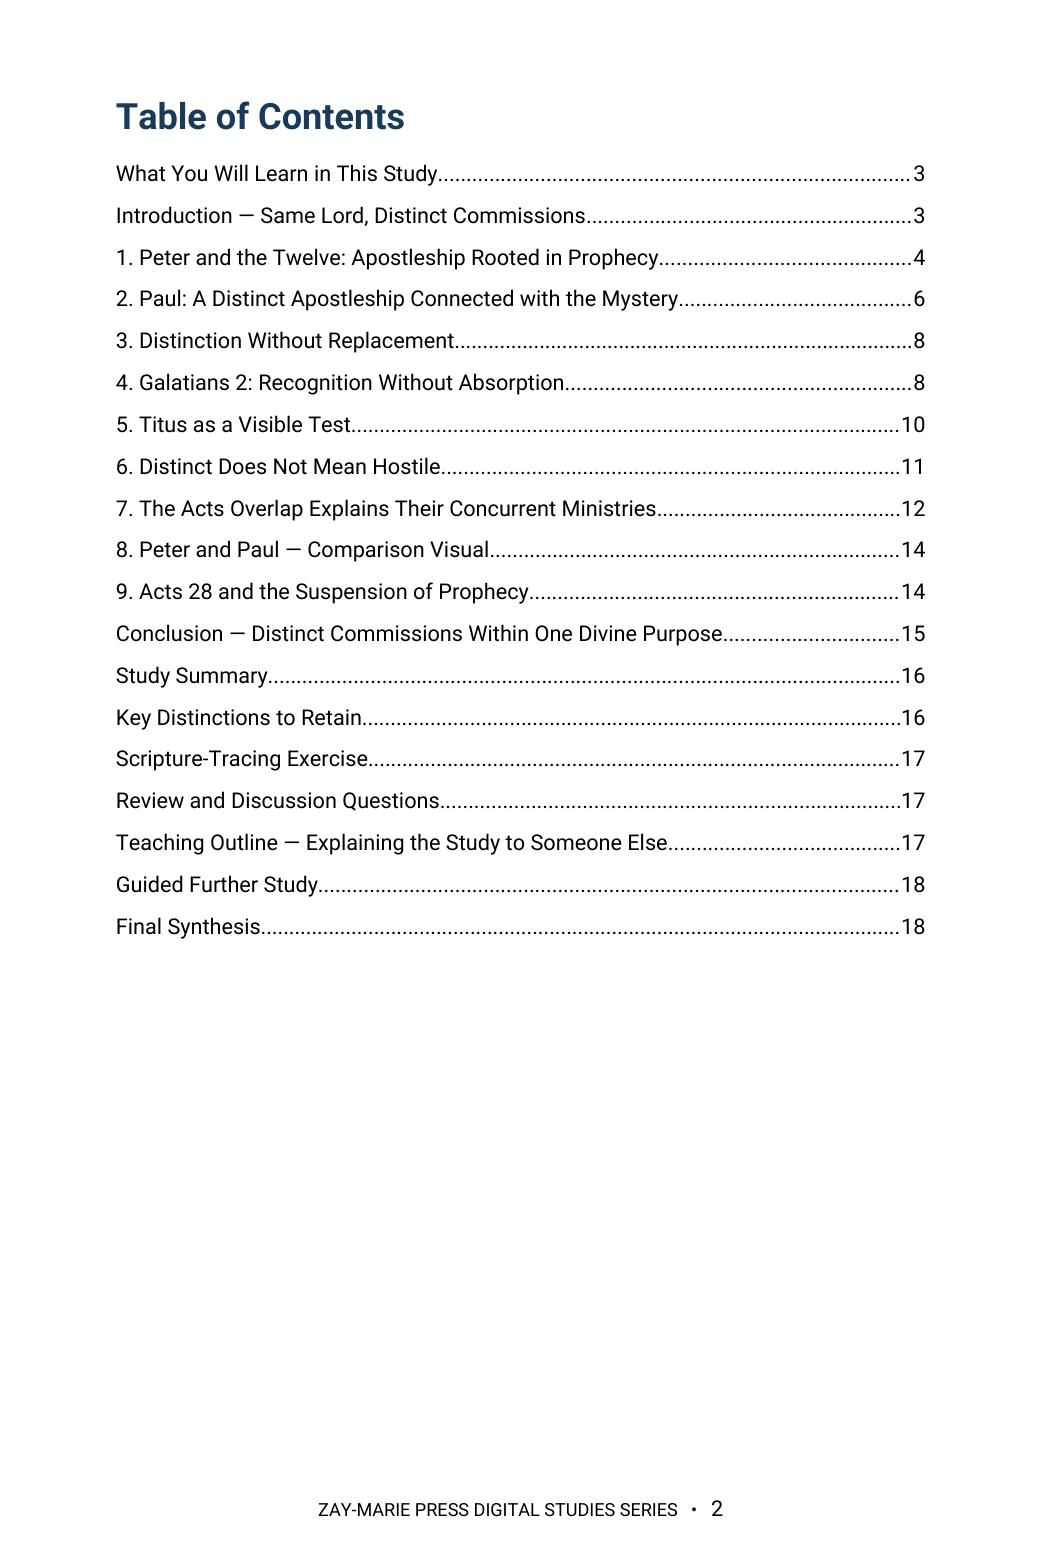
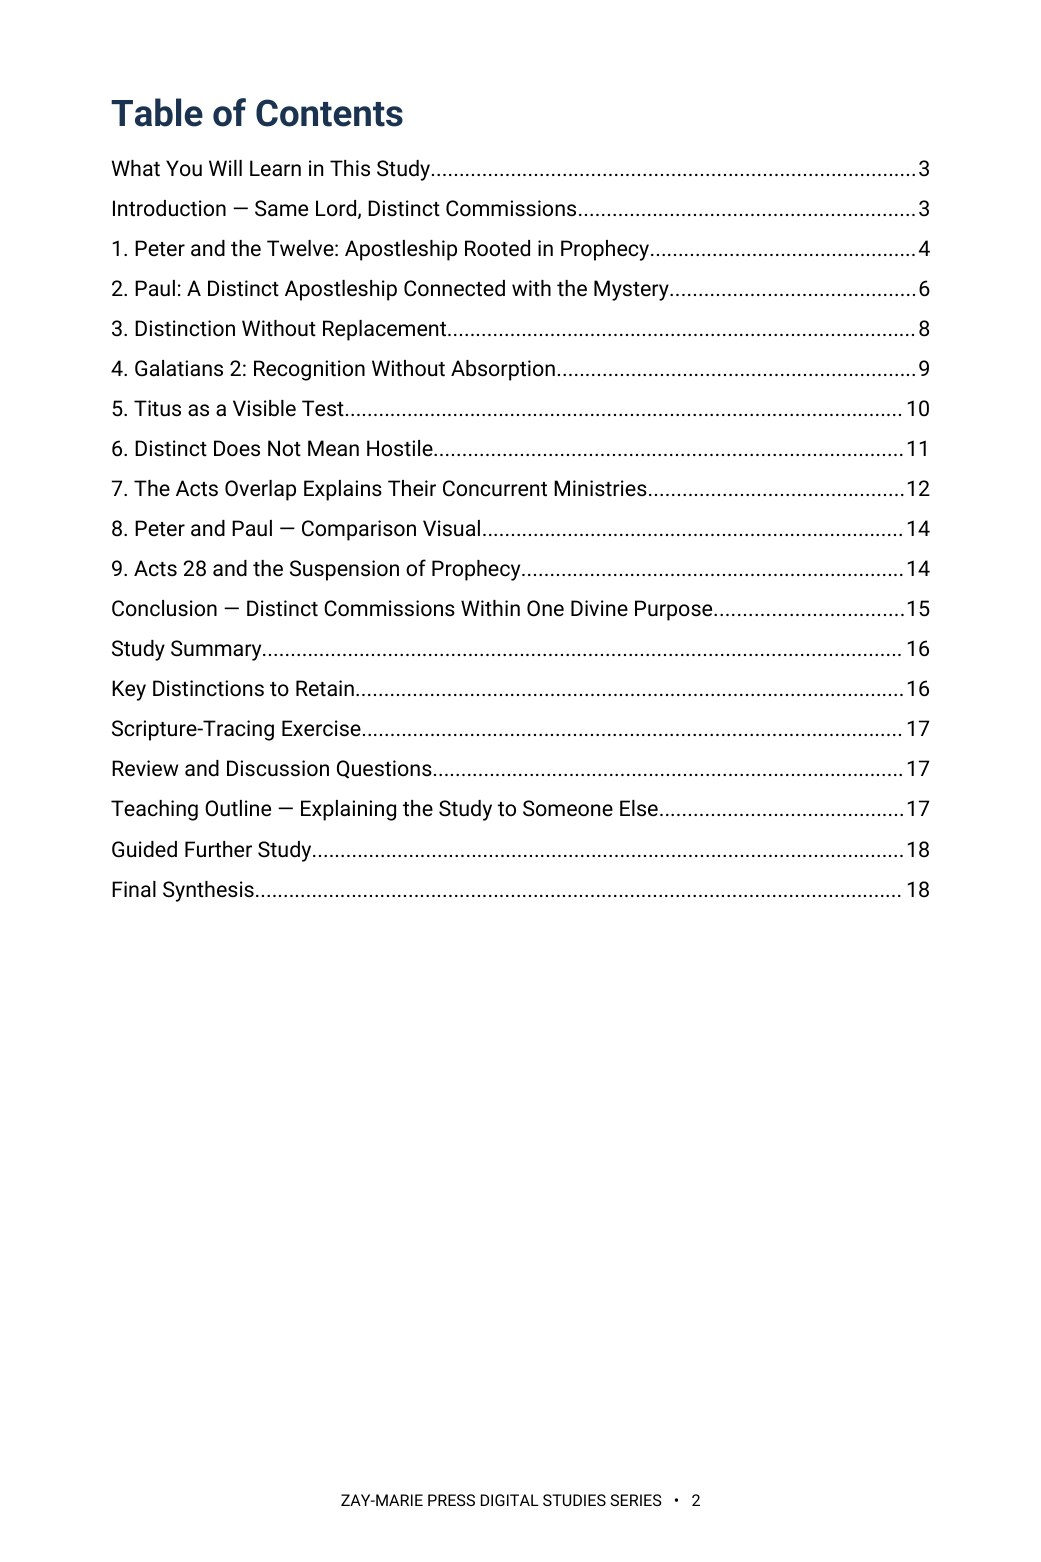
Study 18 retrofit: previews re-rendered at 1041x1562, trackers v1.47/v1.141
Claude-Session: https://claude.ai/code/session_01KcENxFzE91mCRyTPWhcwnE

diff --git a/controlling-documents/Doctrinal_Upgrade_Retrofit_Plan_v1.47.md b/controlling-documents/Doctrinal_Upgrade_Retrofit_Plan_v1.47.md
@@ -54,6 +54,7 @@ Working tracker for correcting published studies to the Framework/PAM v1.1, Mast
 | 32 Covenant and Dispensational Theology | Tier 2 read (Rule 18 synagogue mention, Acts 28, overlap, Rule 17, Romans 11 passing citation, Revelation, Hebrews, internal terms) | DONE 2026-10-03 (v1.42): rebuilt to the Study 52 page geometry at 10 pt body with 10 pt table spacing (16 → 19 pp, Roboto Regular/Bold). Hebrews and Revelation 20–22 working-term sentences replaced by reader-facing wording; overlap sentence, Rule 17 sentence, Acts 28 'not a transfer', full Rule 18 sentence with short form, and the Romans 11 four boundaries plus triad added; 'macro-framework' kept as teaching vocabulary. Website: site.js 32:19, 19 Pages in the page text, previews 2, 3, 5 re-rendered. |
 | 33 The Crowns of Scripture | Tier 2 read (Revelation, overlap, anchors, internal terms) | DONE 2026-10-03 (v1.43): rebuilt to the Study 52 page geometry at 10 pt body with 10 pt table spacing (16 → 18 pp, Roboto Regular/Bold). Introduction PAM/Framework paragraph replaced by the reader-facing letters anchor (James, 1 Peter, 2 John, Philippians, 1 Thessalonians, 2 Timothy); Revelation 4 elders carry the Rule 14 line; overlap sentence added to the Conclusion; 'Pauline framework' changed to 'treatment'. Website: site.js 33:18, 18 Pages in the page text, previews 2, 3, 5 re-rendered. |
 | 14 Why Acts 9 Matters | Tier 2 read (Rule 18, overlap, Rule 17, Rule 11, Acts 28, Romans 11, Cornelius, 1 Timothy anchor, internal terms) | DONE 2026-10-03 (v1.46): rebuilt from the publisher PDF to the Study 52 page geometry at 10 pt body (15 pp, Roboto). Three framework phrasings reworded; Rule 18 full sentence plus short form in the synagogue passages; overlap, Rule 17, Rule 11 and Acts 10–11 sentences added; Acts 28 callout now national judicial suspension, not abolition and not a transfer; Romans 11 four boundaries and 1 Timothy anchor added. Cover: the supplied PDF carried the retired RIGHT DIVISION label, so the BODY OF CHRIST site cover was used. Website: site.js 14:15 unchanged, previews 2, 3, 5 re-rendered at 1041x1562. |
+| 18 Peter and Paul | Tier 2 read (Rule 18, overlap, Rule 17, Rule 11, Acts 28, Romans 11, Colossians and 2 Peter anchor, internal terms) | DONE 2026-10-03 (v1.47): rebuilt from the publisher PDF (432x649) to the Study 52 page geometry at 10 pt body (18 pp, Roboto). Two 'framework' phrasings reworded; Rule 18 full sentence plus short form after the synagogue mention; overlap, Rule 17, Rule 11 and Romans 11 four-boundary sentences added; Acts 28 now national judicial suspension, not abolition and not a transfer; Colossians and 2 Peter anchor added. Cover FOUNDATIONS unchanged; comparison image carried over. Website: site.js 18:18 unchanged, previews 2, 3, 6 re-rendered at 1041x1562. |
 | 39 The Church's Relationship to Israel's Scriptures | Abrahamic/covenant participation + overlap sentence | DONE 2026-10-02 (v1.23): interior corrected (16 pp, Roboto). Withdrawn overlap sentence replaced with the standing sentence and Acts 28 'not abolition and not a transfer' added (§9); 'Gentiles participate spiritually' replaced by the standing Galatians 3 sentence (§8) and 'whole/every covenant term' partial-transfer wording tightened (§8, Study Summary, Key Distinctions table); Romans 11 four-point list and triad added (Introduction); 2 Timothy and Philippians anchors converted and a Colossians anchor added. Sections moved down: TOC updated (7 numbers); 16 pp. Website: previews 2, 3, 5 re-rendered at 1041x1565; site.js 39:16 unchanged |
 | 40 Who Is Abraham's Seed? | Gal 3 / Abrahamic participation (core) | DONE 2026-10-02 (v1.22): interior corrected (16 pp, Roboto). Withdrawn overlap sentence replaced with the standing sentence (Introduction); Romans 11 four-point list and triad added (Introduction); the 'Gentiles participate spiritually / Abrahamic heirship, benefit, inheritance, connection' family replaced with the standing Galatians 3 sentence and plain wording (§6, §8, §10, Study Summary, Key Distinctions table); Romans 4 'participate in promise' and Teaching Outline 'share that benefit' reworded. Sections moved down: TOC updated (Conclusion p10, Scripture-Tracing p11, Guided Further Study p16); 16 pp. Website: preview pages 2, 3 and 4 re-rendered; site.js 40:16 unchanged |
 | 52 Sonship and Adoption | Gal 3 / Abrahamic participation | DONE 2026-10-02 (v1.21): interior corrected (16 pp, Roboto). Withdrawn Galatians 3:26–29 'Gentiles participate spiritually / ethnic distinction is kept' wording replaced by the standing Galatians 3 sentence (3.4) and the 'participation in the seed is spiritual' line reworded; Study 40 pointer parenthetical removed; nine 'The Framework does not assign…' anchors and the Hebrews sentence converted to the reader-facing forms; Romans 11 four-point list and triad added (Group 3). Shorter anchors moved sections up a page, so TOC numbers updated (§5 p9, §6 p11, Conclusion p12, etc.); total still 16 pp. Website: page-2 (TOC) preview re-rendered; pages 3 and 5 unchanged |
@@ -134,3 +135,4 @@ Working tracker for correcting published studies to the Framework/PAM v1.1, Mast
 - v1.44 (2026-10-03): Wave 5 website-side sweep run (read-only), then website fixes applied: Study 17 hero kicker corrected; 'the Framework principle' reworded to 'the principle' on Study 49 and the connections guide; static page-count text corrected on Study 13 (buy panel 15→19) and Study 17 (heading 15→18); previews for Studies 52, 53, 55, 56, 57 and 58 re-rendered at 1041×1562 from the final PDFs (they had been stretched at 1041×1347); two unreferenced stray images deleted (study-03-cover.jpg.png, publishing-process-conviction-to-craft.png.png). STILL OPEN (need publisher input or files): true page counts for Studies 2 (site.js 14, page 15), 14 (15 vs 13), 15 (16 vs 13), 16 (16 vs 14), 18 (18 vs 13); site.js entries and counts for 59 and 60 (and their odd-sized previews); previews for 61–71 (1041×1347, stretched; PDFs needed); imprint KJV sentence ruling (Studies 1, 21, 23, 26, 29, 31, 32, 33); footer alignment ruling; Study 1 navy 'Investigation' headings; 9 pt → 10 pt resets for every study not yet at 10 pt (all except 29, 31, 32, 33); Rule 18 full sentence for 14, 18, 21, 43; Titus anchor ruling; held-back KJV tables for 19–21, 25, 28; Tier 6 interior reads for studies whose PDFs are not on hand.
 - v1.45 (2026-10-03): Publisher supplied PDFs for Studies 2, 14, 15, 16, 18, 59 and 60. Real page counts: 2 = 14, 14 = 15, 15 = 16, 16 = 16, 18 = 18, 59 = 16, 60 = 18 (all match site.js; static page text corrected on 2 [15→14], 14 [13→15], 15 [13→16], 16 [14→16], 18 [13→18]); site.js entries 59:16 and 60:18 added; previews for 59 and 60 re-rendered at 1041×1562 (PDF pages 3, 4, 8 and 3, 4, 5). Read-only findings on those PDFs: Study 2 is Letter 612×792 (Roboto, all four faces, no internal-term hits); 14, 15, 16 and 18 are 432×649 (old geometry) with 'Acts Overlap framework' / 'controlling framework' wording (14, 15, 18) and 'Under the Framework' (16 line 218) to convert; Studies 59 and 60 production masters are NOT Roboto (Carlito, Liberation and Noto fonts), Study 59 is 575×864, and both carry 'Overlap framework' wording (59, 60). All seven are queued for rebuild to the v1.47/v1.48 geometry and 10 pt when sources arrive. Stale-count items from v1.44 for 2, 14, 15, 16, 18, 59, 60 are now CLOSED.
 - v1.46 (2026-10-03): Study 14 retrofit complete (see row). 1 Timothy anchor ("This reading of 1 Timothy rests on the letter’s own audience markers and setting.") approved by the publisher; Titus still awaits its own ruling. Next: Study 18.
+- v1.47 (2026-10-03): Study 18 retrofit complete (see row). Next: Studies 15, 16, 2, 59, 60 rebuilds and the remaining Wave 5 items.

diff --git a/CLAUDE.md b/CLAUDE.md
@@ -21,7 +21,7 @@ These are kept in the repo at `controlling-documents/` and are the current versi
 - As of v1.48 (publisher directive, 2026-10-02), §6 sets the **body-text standard at 10 pt** and enforces the table-spacing rule, written into this file in the same pass: body paragraphs, lists, table body text and Table of Contents entries are Roboto Regular 10 pt black (previously 9 pt), at 6 pt after / 0 before / 1.08 line spacing (lists 0 pt after each item, 6 pt after the last); headings (17 pt), callout titles (10 pt bold caps), the "Study Outline" sub-heading (12 pt) and the footer are unchanged. Every table, callout boxes included, has 10 pt of controlled spacing before and after: the paragraph before a table has at least 10 pt space-after and the paragraph after it at least 10 pt space-before, so body text never touches a table (the defect was seen on Study 29, under a KJV table). Studies built at 9 pt (1, 3, 7, 8, 10, 23, 26, 29 and the other rebuilt studies) are reset to 10 pt when reopened or in the Wave 5 sweep, and page counts, TOC pages, previews and `site.js` follow each rebuild. In every study check (Step 1) report the body size and measure the first paragraph after each table. Study 29 is the first study rebuilt to it.
 **`controlling-documents/Digital_Studies_Relationship_Map_v1.39.md`** — records each study's distinct subject, its related studies, the eight priced six-study collections, the Paul's Missionary Journeys cross-reference map, and the five primary catalog categories (currently version 1.39, covers Studies 1–71; update it as new studies publish, bump the version number, rename the file to match, and log the change in its own version-history table — mirroring the Master Standard's `_vX.Y` filename convention). Check a proposed topic against it before recommending or writing a new study. (2026-09-28: the file was missing from this repo despite this note referencing it; replaced from the publisher's copy and bumped v1.15→v1.25 in the same pass. If this note ever again points to a version not present under `controlling-documents/`, ask the publisher for a copy rather than proceeding without the check.)
 - **`controlling-documents/Digital_Studies_Category_Standard_v1.1.md`** — FINAL and binding (publisher, 2026-10-01): the rules for the five primary catalog categories (Foundations, Israel & Prophecy, Body of Christ, Passages, Doctrinal Themes), the ordered decision procedure for new studies, the precedents, all 71 fixed assignments, and the cover-label form for each category. Read it before placing any card or cover label. Do not ask the publisher where a study belongs; apply the procedure and state the result. Only the publisher changes a ruling; then bump this Standard's version and filename, re-letter the cover, and update the Relationship Map.
-- **`controlling-documents/Doctrinal_Upgrade_Retrofit_Plan_v1.46.md`** — working tracker for retrofitting Studies 1–59 to the 2026-10-02 doctrinal upgrade (Framework/PAM v1.1, Master Standard v1.40, Rules 7–17): withdrawn-wording search keys, impact tiers, waves and the per-study method. Read it before continuing the retrofit in any session; update status, bump the version and rename the file as work proceeds.
+- **`controlling-documents/Doctrinal_Upgrade_Retrofit_Plan_v1.47.md`** — working tracker for retrofitting Studies 1–59 to the 2026-10-02 doctrinal upgrade (Framework/PAM v1.1, Master Standard v1.40, Rules 7–17): withdrawn-wording search keys, impact tiers, waves and the per-study method. Read it before continuing the retrofit in any session; update status, bump the version and rename the file as work proceeds.
 - **`controlling-documents/Doctrinal_Packet_Standard_v0.3.md`** — Doctrinal Packet Standard (DRAFT; §7 approved). Governs the separate Doctrinal Packets product strand (5-page interpretive PDFs per Bible book — a print-friendly cover as page 1 plus 4 content pages, $2.99, KJV, pilot: Genesis, live at `packet-genesis.html`, hub `doctrinal-packets.html`; site pages say "5 Pages", cover styles live in `packets.css`, Old Testament blue and New Testament soft pale green, hub listed in Bible order). **Preview rule (publisher directive, 2026-09-29, packets only):** previews show about one page's worth in two cropped views (top of page 1 through the anchor texts; the chart section) — never the exegesis, architecture, Mystery contrast, logic chain, outline, or closing. Master Standard §16/§17 still govern Digital Studies. Bump the version and rename the file as the Standard is finalized.
 - **`controlling-documents/Preview_Page_Spoiler_Retrofit_Audit_v1.4.md`** — working tracker for the Studies 1–60 preview-page conclusion-spoiler retrofit (see the section below). Read it before continuing that audit in any session; update its status fields and changelog, bump the version, and rename the file to match as the audit proceeds — same `_vX.Y` convention as the other controlling documents. As of v1.1, the website-side half was DONE: all 60 studies' "What You'll Study" text was judged against the rule (methodology documented in the file) and 22 points across 11 studies were rewritten and pushed; an unrelated Study 22 content bug (Study 21's content had leaked into it) was also found and fixed. As of v1.2, the publisher supplied Studies 1–60's interior production PDFs and the interior-PDF half was also surveyed (read-only): 10 studies (37, 41, 45, 47, 48, 49, 51, 52, 53, 54) were found to have at least one interior "What You Will Learn" violation, 50 studies were confirmed compliant, and the orphaned `assets/study-45-sanctification-under-grace.docx` (removed from the repo per the publisher in v1.0) was confirmed word-for-word identical to Study 45's actual production interior PDF content. As of v1.3, the publisher supplied editable DOCX sources for all 10 violating studies; all 15 violating points were rewritten and approved, delivered as corrected final PDFs, and — along the way — a second defect was found and fixed (Studies 47 and 48's source DOCX still had an unintegrated cover placeholder despite both being long-published live with real covers; fixed by inserting the existing approved cover art). The website's "What You Will Learn" preview image (`study-NN-page-3.jpg`) was regenerated from the corrected content for all 10 studies and pushed to `main` (commit `cea1859`), verified against a fresh clone. **The website side of this audit is now fully compliant for all 60 studies.** Outstanding: the publisher's purchasable interior PDF files themselves have corrected versions delivered, but distribution to existing purchasers was decided by the publisher on 2026-09-29: silent swap of the files behind the existing downloads, no reissue notice (recorded in the v1.4 changelog entry; the product files are not in this repo).
 

diff --git a/controlling-documents/Digital_Studies_PAM_Audit_v1.141.md b/controlling-documents/Digital_Studies_PAM_Audit_v1.141.md
@@ -370,3 +370,4 @@ Study 15 PDF not yet supplied. Typography: none of Studies 2, 3, 6, 8 is in EB G
 - v1.138 (2026-10-03): Wave 5 website-side fixes: Study 49 and connections guide 'Framework principle' reworded; Study 17 kicker corrected and heading count 15→18; Study 13 buy-panel count 15→19; previews for 52, 53, 55–58 re-rendered at 1041×1562.
 - v1.139 (2026-10-03): Page counts verified from the publisher's PDFs for Studies 2, 14, 15, 16, 18, 59, 60; static page text corrected on 2, 14, 15, 16, 18; site.js 59:16 and 60:18 added; previews 59 and 60 re-rendered at 1041×1562.
 - v1.140 (2026-10-03): Study 14 interior rebuilt (15 pp, 10 pt, Roboto); Rule 18, overlap, Rule 17, Rule 11, Acts 10–11 and Romans 11 boundaries applied; previews 2, 3, 5 re-rendered.
+- v1.141 (2026-10-03): Study 18 interior rebuilt (18 pp, 10 pt, Roboto); Rule 18, overlap, Rule 17, Rule 11, Romans 11 boundaries and Colossians/2 Peter anchor applied; previews 2, 3, 6 re-rendered.
